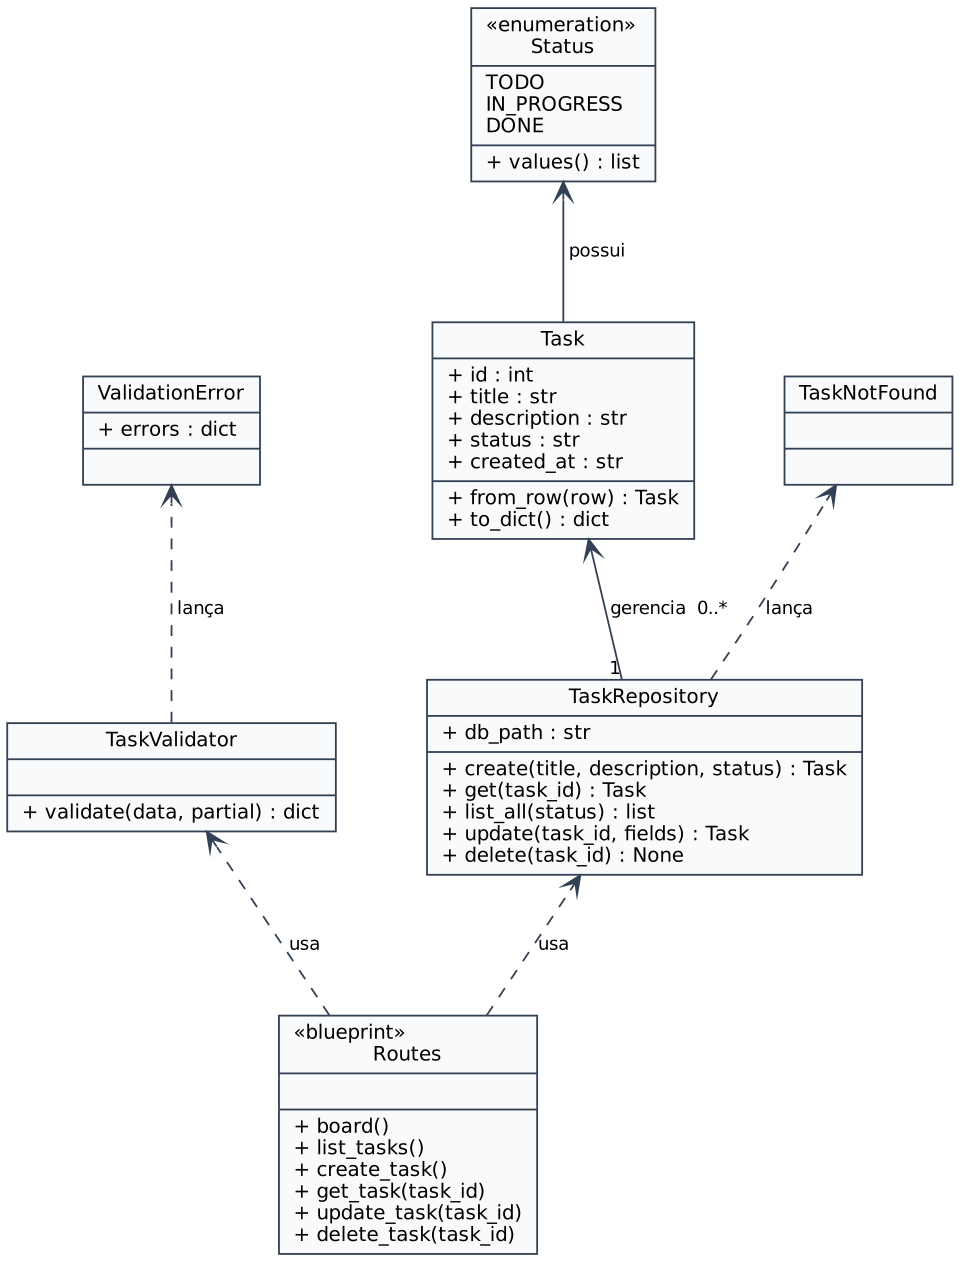
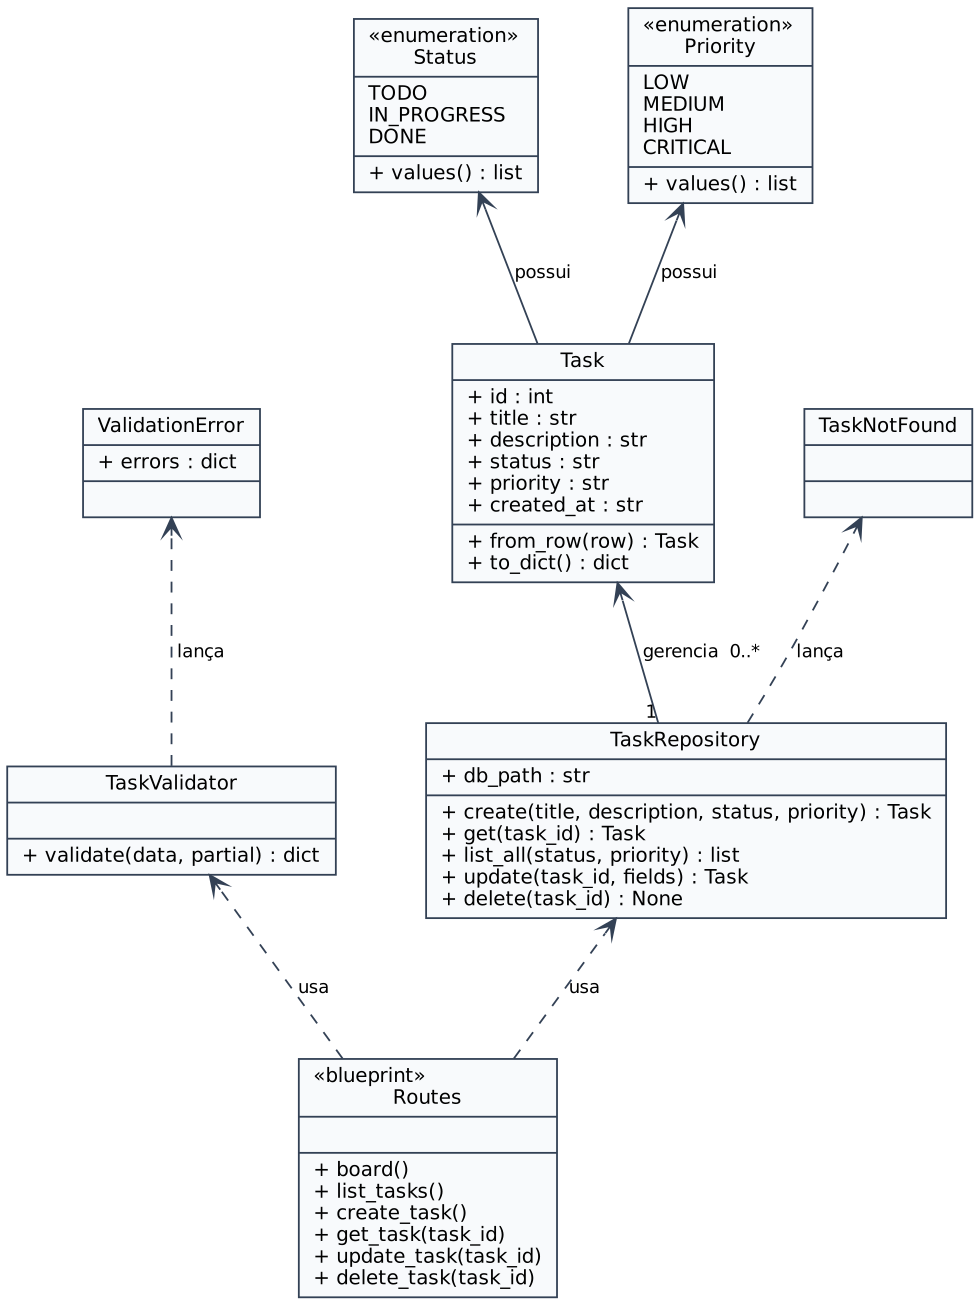
docs: atualiza diagramas UML e API com a funcionalidade de prioridade

diff --git a/README.md b/README.md
@@ -46,7 +46,7 @@ O mesmo fluxo roda a cada push e pull request no GitHub Actions (`.github/workfl
 
 | Método | Rota | Descrição |
 |--------|------|-----------|
-| GET | `/api/tasks` | Lista tarefas (filtro opcional `?status=`) |
+| GET | `/api/tasks` | Lista tarefas ordenadas por prioridade (filtros `?status=` e `?priority=`) |
 | POST | `/api/tasks` | Cria tarefa |
 | GET | `/api/tasks/<id>` | Busca tarefa |
 | PUT | `/api/tasks/<id>` | Atualiza tarefa (parcial) |
